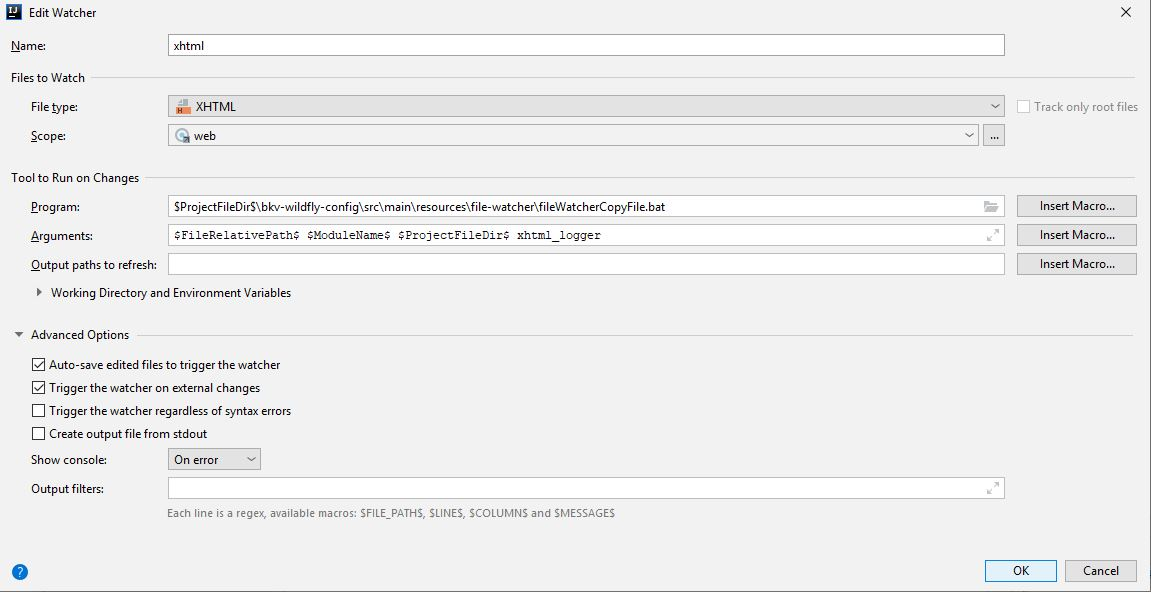
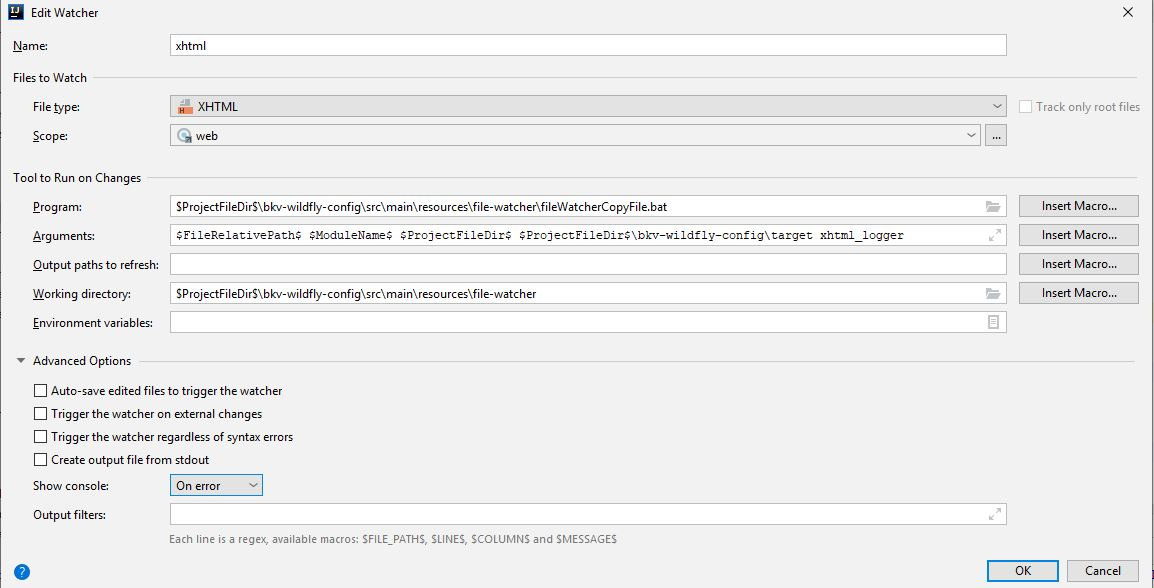
parameter fix

diff --git a/readme.md b/readme.md
@@ -34,6 +34,7 @@ Azaz ahol figyeljen a plugin.
 * Arguments: Programnak átadott paraméterek 
 1. <em>file</em>:                   forrásfile elérési útja az aktuális könyvtárhoz viszonyítva
 1. <em>module</em>:                 web modul neve, ahová a fájlt be kell mésolni
+1. <em>project root</em>:           project root elérése
 1. <em>rootDirectoryForServer</em>: gyökérkönyvtár, ahol lehet keresni a deployolt war állományt
 1. <em>logger</em>:                 ha meg van adva, debug üzenet kiírása
     
